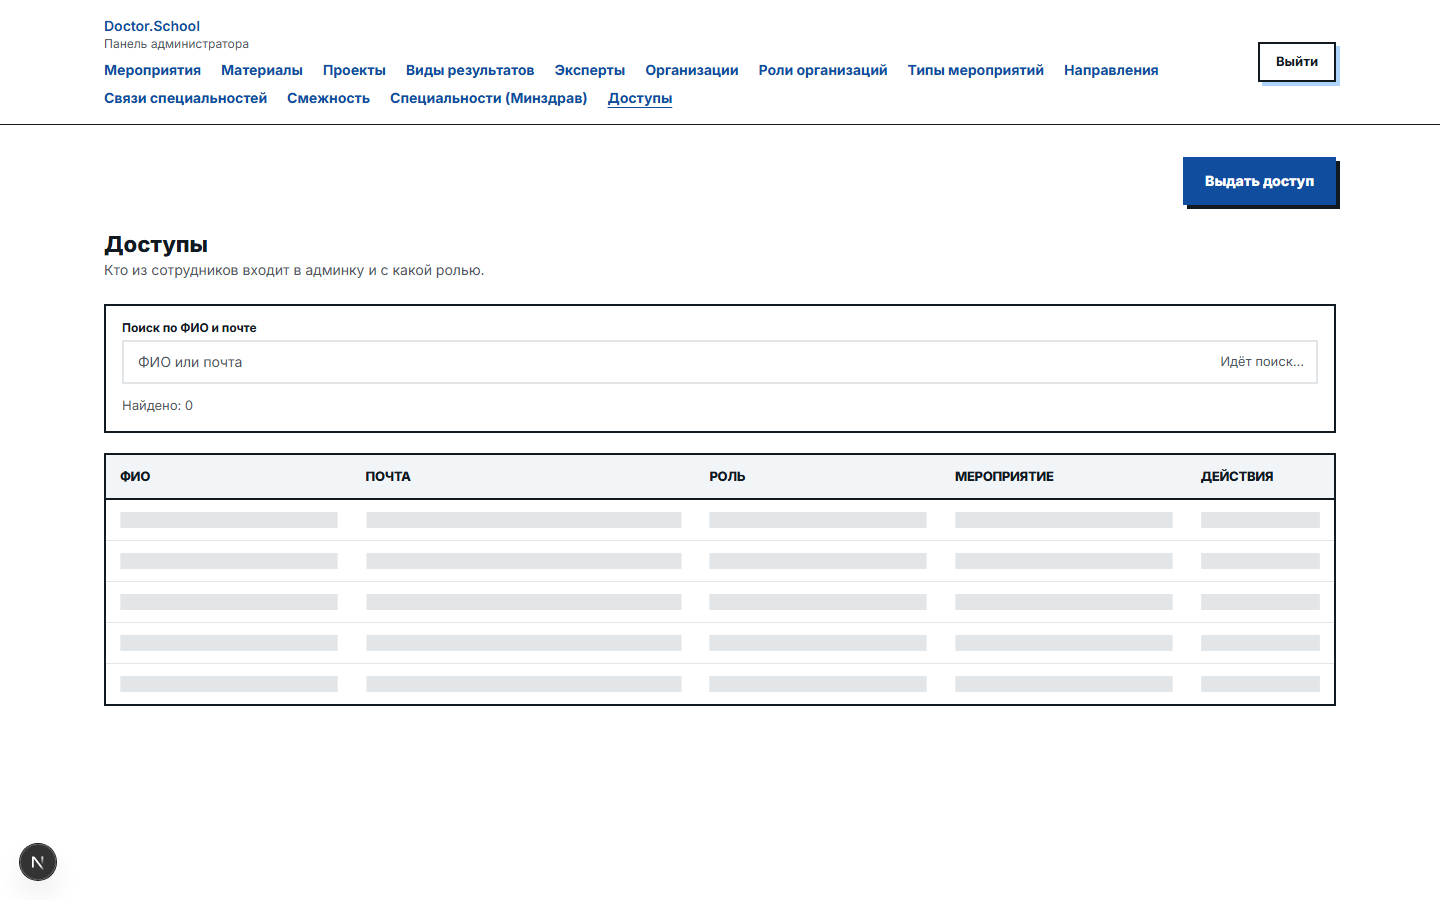
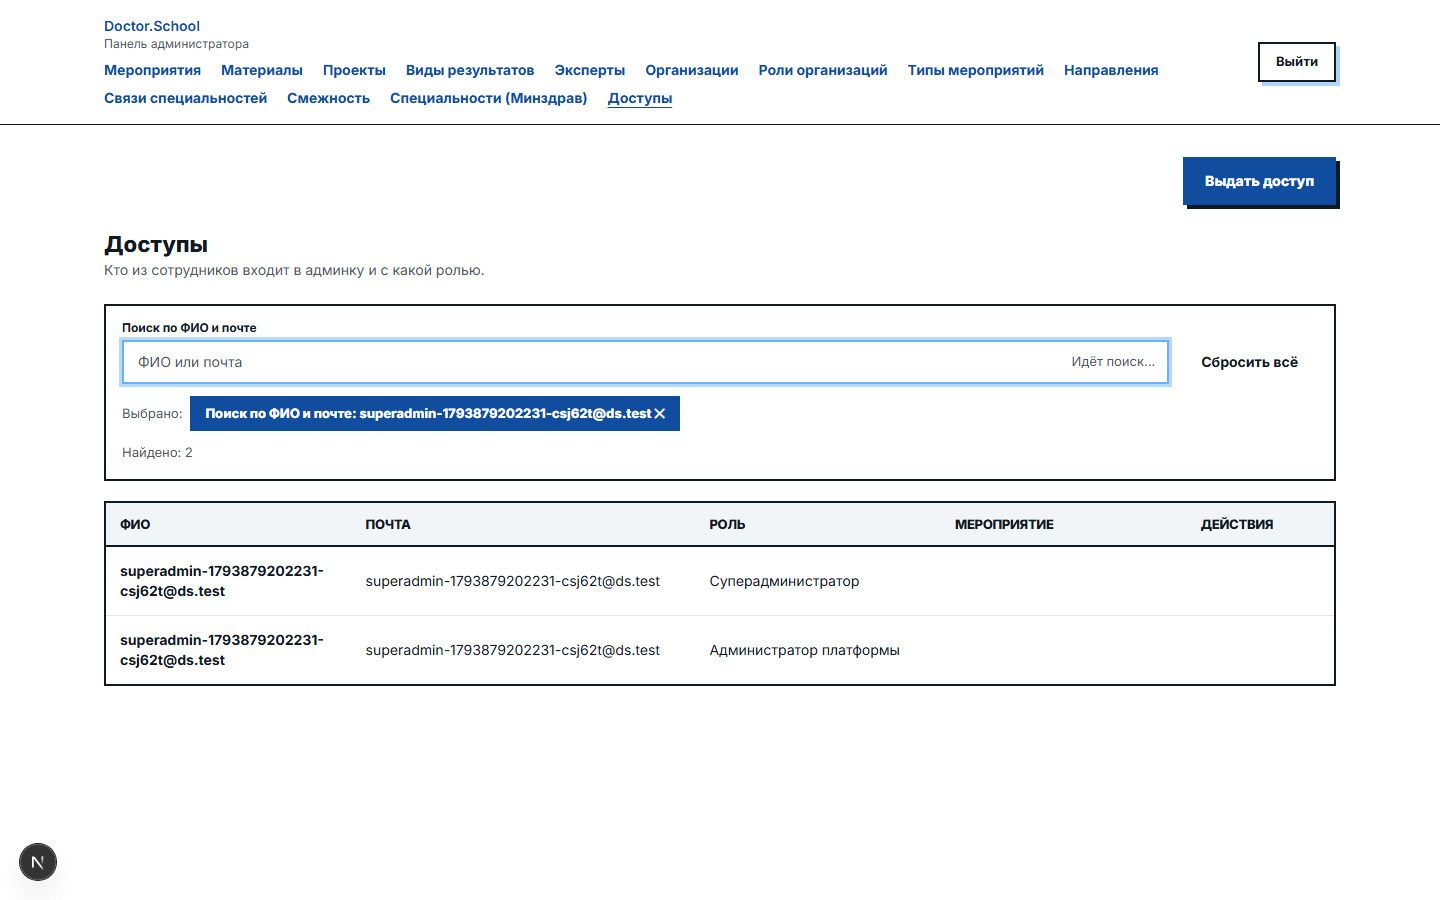
fix(3740): «Доступы» docs name the superadministrator; list captures taken once the list has loaded
The staff-access page and grant-form comments and the admin onboarding runbook now name
the superadministrator as the holder of «Доступы», list broadcast_director as grantable and
say which rows have no «Отозвать». The staff-access-list evidence is captured after the
list resolves, and a new staff-access-list-superadmin capture shows the superadministrator's
own rows without «Отозвать». The module README lists STAFF_REVOKE_SUPERADMIN_HOLDER.

Claude-Session: https://claude.ai/code/session_01BCe8sAzcYSsex9FSoKQ4Cs

Changed region(s): [[0.0625, 0.3733, 0.9375, 0.7778]]

diff --git a/apps/admin/app/access/page.tsx b/apps/admin/app/access/page.tsx
@@ -43,19 +43,21 @@ import { useAdminAccess } from "@/lib/use-admin-access";
  * 047 EARS-1/EARS-2 — «Доступы»: every account holding a grantable staff role,
  * one row per person, role and event, on the `AdminDataList` composition the
  * congress roster uses (approved-non-canvas `feature-047-staff-access-v1`,
- * states `staff-access-nav` and `staff-access-list`). Platform administrator
- * only: the chrome draws the section for no one else (`lib/admin-access.ts`),
- * the shell refuses the route to anyone else, and the API refuses every
- * staff-access endpoint server-side.
+ * states `staff-access-nav` and `staff-access-list`); 049 EARS-3/EARS-5 move
+ * it to the superadministrator and list superadministrator rows too.
+ * Superadministrator only: the chrome draws the section for no one else
+ * (`lib/admin-access.ts`), the shell refuses the route to anyone else, and the
+ * API refuses every staff-access endpoint server-side.
  *
  * The list read (`GET /v1/admin/staff-access`) answers the whole set — a few
  * dozen staff — so the ФИО/почта search and the pager run over it here.
  *
  * «Выдать доступ» opens the grant panel (`StaffAccessGrantForm`); each row's
- * «Отозвать» opens the confirmation (`StaffAccessRevokeDialog`, 047 EARS-7). The
- * caller's own platform-administrator row draws it too: the session read the
- * console holds names roles, not the caller's account, so the API refusal
- * (`REVOKE_SELF_PLATFORM_ADMIN`) is what the dialog shows there.
+ * «Отозвать» opens the confirmation (`StaffAccessRevokeDialog`, 047 EARS-7). It
+ * is drawn only on a row the API marks `revocable` (049 EARS-5): never on a
+ * `superadmin` row, on the caller's own `platform_admin` row or on a
+ * superadministrator's `platform_admin` row — `superadmin` itself is granted
+ * and removed only by the operator command (049 EARS-6).
  *
  * A grant or a revocation the step-up interrupted (047 EARS-8) comes back here
  * from the code screen. One saved request exists at a time, so it is read once

diff --git a/apps/admin/e2e/staff-access.spec.ts b/apps/admin/e2e/staff-access.spec.ts
@@ -180,7 +180,6 @@ test.describe("047 / 049 «Доступы» — a superadministrator grants staf
     await expect(
       admin.getByRole("table", { name: "Сотрудники с доступом к админке" }),
     ).toBeVisible();
-    await evidenceShot(admin, "staff-access-list");
     const ownRows = await rowOf(admin, adminAccount.email);
     await expect(ownRows).toHaveCount(2);
     await expect(ownRows.first()).toContainText("Суперадминистратор");
@@ -190,6 +189,16 @@ test.describe("047 / 049 «Доступы» — a superadministrator grants staf
     await expect(ownRows.getByRole("button", { name: "Отозвать" })).toHaveCount(
       0,
     );
+    // The shots are taken once the list has resolved, never on its skeleton:
+    // first the caller's own rows found by the search, then the whole list.
+    await evidenceShot(admin, "staff-access-list-superadmin");
+    await admin
+      .getByRole("searchbox", { name: "Поиск по ФИО и почте" })
+      .fill("");
+    await expect(
+      admin.locator("tbody tr", { hasText: "@" }).first(),
+    ).toBeVisible();
+    await evidenceShot(admin, "staff-access-list");
   });
 
   test("047 EARS-3/EARS-5/EARS-6 (V-9): a new email gets «Программный комитет» for an event, a one-time password, signs in with it and lands on the event's «Заявки»", async ({

diff --git a/apps/admin/components/staff-access-grant-form.tsx b/apps/admin/components/staff-access-grant-form.tsx
@@ -65,8 +65,9 @@ export interface StaffAccessGrantResume {
 }
 
 /**
- * 047 EARS-3…EARS-6, EARS-8 — «Выдать доступ»: a platform administrator grants
- * a staff role to a person by email.
+ * 047 EARS-3…EARS-6, EARS-8 — «Выдать доступ»: a superadministrator grants a
+ * staff role to a person by email (049 EARS-3/EARS-4 — «Режиссёр трансляций»
+ * included, with no event binding).
  *
  * Approved-non-canvas source `feature-047-staff-access-v1` (owner «1»,
  * #2901): the form opens the way «Добавить участника» opens on the congress

diff --git a/apps/api/src/staff-access/README.md b/apps/api/src/staff-access/README.md
@@ -6,12 +6,12 @@ The module owns the `superadmin` surface (049 EARS-3) that lists, grants and rev
 
 ## What is here
 
-| File                               | Role                                                                                                                                                                                                                                                                                                                                                                                                                                                                                                              |
-| ---------------------------------- | ----------------------------------------------------------------------------------------------------------------------------------------------------------------------------------------------------------------------------------------------------------------------------------------------------------------------------------------------------------------------------------------------------------------------------------------------------------------------------------------------------------------- |
-| `staff-access.admin.controller.ts` | `GET /v1/admin/staff-access` (EARS-1/2) , `POST /v1/admin/staff-access/grants` (EARS-3…6, 9; `stepUp: true`, `no-store`) and `POST /v1/admin/staff-access/revocations` (EARS-7…9; `stepUp: true`, `204`). Exports the Zod DTOs `StaffAccessGrantRequestDto`, `StaffAccessRevokeRequestDto`, `StaffAccessGrantResponseDto`, `StaffAccessListResponseDto`.                                                                                                                                                          |
-| `staff-access.service.ts`          | `StaffAccessService` — the list projection, the grant cascade and the revoke cascade. `StaffAccessRefusal` carries the EARS-3 `errorCode`s (`EVENT_NOT_FOUND` 422, `REGISTRAR_BOUND_ELSEWHERE` / `GRANT_ALREADY_COMPLETE` / `STAFF_GRANT_EMAIL_UNVERIFIED` / `STAFF_GRANT_EMAIL_AMBIGUOUS` 409); an existing account whose email is not verified, or an email more than one IdP account holds, is refused before any write. The EARS-7 refusals: `REVOKE_SELF_PLATFORM_ADMIN` 403, `REVOKE_ALREADY_COMPLETE` 409. |
-| `staff-access.repository.ts`       | `StaffAccessRepository` — mirror, event binding and audit reads; `withGrantLock` runs a grant under a per-email `pg_advisory_xact_lock`; `commitGrant` writes mirror, binding and the completion mark in one transaction, relying on the `event_role_grants` unique indexes (`isRegistrarBindingConflict`); `withRevokeLock` (per account), `deleteBinding` and `commitRevocation` (mirror + completion mark) serve the revocation.                                                                               |
-| `temporary-password.ts`            | `generateTemporaryPassword` (EARS-6): 16 characters, unambiguous alphabet, from `crypto.randomInt`. The password lives in the request scope and the `201` body only.                                                                                                                                                                                                                                                                                                                                              |
-| `staff-access.module.ts`           | `StaffAccessModule` — imports the IdP port and `AdminSessionModule` (`endAllAdminAccess`); Postgres comes through the global `DRIZZLE_DB`.                                                                                                                                                                                                                                                                                                                                                                        |
+| File                               | Role                                                                                                                                                                                                                                                                                                                                                                                                                                                                                                                                                                                                             |
+| ---------------------------------- | ---------------------------------------------------------------------------------------------------------------------------------------------------------------------------------------------------------------------------------------------------------------------------------------------------------------------------------------------------------------------------------------------------------------------------------------------------------------------------------------------------------------------------------------------------------------------------------------------------------------- |
+| `staff-access.admin.controller.ts` | `GET /v1/admin/staff-access` (EARS-1/2) , `POST /v1/admin/staff-access/grants` (EARS-3…6, 9; `stepUp: true`, `no-store`) and `POST /v1/admin/staff-access/revocations` (EARS-7…9; `stepUp: true`, `204`). Exports the Zod DTOs `StaffAccessGrantRequestDto`, `StaffAccessRevokeRequestDto`, `StaffAccessGrantResponseDto`, `StaffAccessListResponseDto`.                                                                                                                                                                                                                                                         |
+| `staff-access.service.ts`          | `StaffAccessService` — the list projection, the grant cascade and the revoke cascade. `StaffAccessRefusal` carries the EARS-3 `errorCode`s (`EVENT_NOT_FOUND` 422, `REGISTRAR_BOUND_ELSEWHERE` / `GRANT_ALREADY_COMPLETE` / `STAFF_GRANT_EMAIL_UNVERIFIED` / `STAFF_GRANT_EMAIL_AMBIGUOUS` 409); an existing account whose email is not verified, or an email more than one IdP account holds, is refused before any write. The EARS-7 refusals: `REVOKE_SELF_PLATFORM_ADMIN` 403, `REVOKE_ALREADY_COMPLETE` 409, and 049 EARS-5 `STAFF_REVOKE_SUPERADMIN_HOLDER` 409 (`platform_admin` of a superadmin holder). |
+| `staff-access.repository.ts`       | `StaffAccessRepository` — mirror, event binding and audit reads; `withGrantLock` runs a grant under a per-email `pg_advisory_xact_lock`; `commitGrant` writes mirror, binding and the completion mark in one transaction, relying on the `event_role_grants` unique indexes (`isRegistrarBindingConflict`); `withRevokeLock` (per account), `deleteBinding` and `commitRevocation` (mirror + completion mark) serve the revocation.                                                                                                                                                                              |
+| `temporary-password.ts`            | `generateTemporaryPassword` (EARS-6): 16 characters, unambiguous alphabet, from `crypto.randomInt`. The password lives in the request scope and the `201` body only.                                                                                                                                                                                                                                                                                                                                                                                                                                             |
+| `staff-access.module.ts`           | `StaffAccessModule` — imports the IdP port and `AdminSessionModule` (`endAllAdminAccess`); Postgres comes through the global `DRIZZLE_DB`.                                                                                                                                                                                                                                                                                                                                                                                                                                                                       |
 
 The step-up re-verification the grant relies on (`POST /v1/admin/auth/mfa/reverify`, EARS-8) lives in `auth/admin-session/`, beside the challenge it reuses.

diff --git a/apps/docs/content/operations/admin-onboarding.md b/apps/docs/content/operations/admin-onboarding.md
@@ -6,7 +6,7 @@ lang: en
 
 # Grant and revoke staff access
 
-A procedure for the platform administrator who has been asked to give a staff
+A procedure for the superadministrator who has been asked to give a staff
 member access to the admin panel at `https://admin.doctor.school`, or to take it
 away. Staff access is managed in the admin section «Доступы» (`/access`,
 feature 047): the grant finds or creates the account, adds the role and the event
@@ -25,15 +25,18 @@ Related: the [auth operations runbook](./auth-operations.md) — especially
 ## When to use / prerequisites
 
 - **Owner decision first.** The roles are `platform_admin` («Администратор
-  платформы» — the full admin panel, «Доступы» included), `event-registrar`
-  (the congress roster of one event, 044 EARS-17/38) and
-  `congress-program-committee` (the submissions of the events it is bound to).
+  платформы» — the full admin panel except «Доступы», which only a
+  superadministrator opens), `event-registrar` (the congress roster of one
+  event, 044 EARS-17/38), `congress-program-committee` (the submissions of the
+  events it is bound to) and `broadcast_director` («Режиссёр трансляций», no
+  event binding). `superadmin` is not granted here: only the operator command
+  grants and removes it.
   The owner must have decided which role, and for which event, this person gets.
 - **Inputs:** the person's corporate email, ФИО (family name first), the role,
   the event for an event-bound role, their Mattermost account on
   `https://chat.bbm.academy`, and a one-phrase description of the work they are
   being given access for (used in the greeting).
-- **You need** a `platform_admin` account with an enrolled authenticator, and —
+- **You need** a `superadmin` account with an enrolled authenticator, and —
   to deliver a temporary password — ssh access to `tools-prod-tw`, the
   Mattermost box (bbm-owned infra, compose dir `~/mattermost-deploy`).
 
@@ -232,9 +235,12 @@ waiting period and no manual session clean-up.
   event binding is already removed; repeat the same «Отозвать» to finish the
   revocation. Until then the row stays in the list (for an event-bound role, with
   an empty event).
-- **Your own «Администратор платформы» cannot be revoked** — so the last platform
-  administrator can never lock everyone out. Another platform administrator
-  revokes it.
+- **No «Отозвать» on a superadministrator's rows.** «Суперадминистратор» and a
+  superadministrator's «Администратор платформы» cannot be revoked from
+  «Доступы», and neither can your own «Администратор платформы» — so «Доступы»
+  never loses its holder. `superadmin` is removed only by the operator command;
+  after that, another superadministrator revokes the remaining
+  «Администратор платформы».
 - **A person leaving the organization altogether:** besides revoking their
   rows, the identity-provider account itself can be deactivated by the operator
   ([auth operations runbook](./auth-operations.md)); «Доступы» does not
